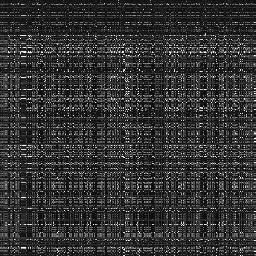
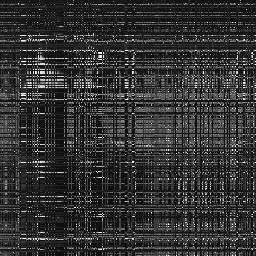
可以看到那条狗

diff --git a/opencv.cpp b/opencv.cpp
@@ -67,10 +67,10 @@ void swap_column(int present_column, int target_column,uchar *p, int N){
 	}	
 }	
 
-void checkbox_binary_row(long long *csvMat,int boxSize,int box_col,int *binary,long long *result_matrix,int bits_size){
+void checkbox_binary_row(long long *csvMat,int boxSize,int box_col,int *binary,int *result_matrix,int bits_size){
 	for(int x=0;x<box_col;x++){	
 		for(int i=0;i<box_col;i=i+1){
-			//printf("decimal to binary: %lld\n",csvMat[i*2+1+x*box_col*2]);
+			//printf("row decimal to binary[%d]: %lld\n",x*box_col+i,csvMat[i*2+1+x*box_col*2]);
 			decimal_to_binary(csvMat[i*2+1+x*box_col*2],bits_size,binary);
 			for(int k=0;k<boxSize;k++){
 				int result=0;
@@ -79,15 +79,16 @@ void checkbox_binary_row(long long *csvMat,int boxSize,int box_col,int *binary,l
    					//printf("result is:%d\n",result);
    				}
    				result_matrix[k*box_col+i+boxSize*x*box_col]=result;
-   				//printf("checkbox row result %d: result_matrix[%d] = %lld\n",x*256+8*i+k,k*box_col+i+boxSize*x*box_col,result_matrix[k*box_col+i+4*x*box_col]);
+   				printf("checkbox row result %d: result_matrix[%d] = %d\n",x*256+8*i+k,k*box_col+i+boxSize*x*box_col,result_matrix[k*box_col+i+boxSize*x*box_col]);
    			}
 		}
 	}	
 }
 
-void checkbox_binary_column(long long *csvMat,int boxSize,int box_col,int *binary,long long *result_matrix,int bits_size){
+void checkbox_binary_column(long long *csvMat,int boxSize,int box_col,int *binary,int *result_matrix,int bits_size){
 	for(int x=0;x<box_col;x++){	
 		for(int i=0;i<box_col;i=i+1){
+			//printf("col decimal to binary[%d]: %lld\n",x*box_col+i,csvMat[i*2+x*box_col*2]);
 			decimal_to_binary(csvMat[i*2+x*box_col*2],bits_size,binary);//i*2+x*box_col*2//x*2+i*box_col*2
 			for(int k=0;k<boxSize;k++){
 				int result=0;
@@ -95,13 +96,13 @@ void checkbox_binary_column(long long *csvMat,int boxSize,int box_col,int *binar
    					result=result+binary[z+k*8]*pow(2,7-z);
    				}
    				result_matrix[i*box_col*boxSize+x+k*box_col]=result;//i*box_col*boxSize+x+k*box_col//k*box_col+i+boxSize*x*box_col
-   				//printf("checkbox column result %d: %lld\n",x*256+boxSize*i+k,result_matrix[k*box_col+i+4*x*box_col]);
+   				//printf("checkbox column result %d: %d\n",x*256+boxSize*i+k,result_matrix[k*box_col+i+boxSize*x*box_col]);
    			}
 		}
 	}	
 }
 
-void get_xor(long long *result_xor,long long *result_matrix,int box_col, int M){
+void get_xor(int *result_xor,int *result_matrix,int box_col, int M){
 	for(int j=0;j<M;j++){
    		for(int i=0+j*box_col;i<box_col-1+j*box_col;i++){
    	   		result_matrix[i+1]=result_matrix[i]^result_matrix[i+1];//XOR every decimal of the row or column
@@ -189,8 +190,8 @@ int main(int argc, char *argv[]){
 	uchar *p = image.data;
 	row_xor = rowXOR(p, M);
 	col_xor = colXOR(p, M);
-	for(i=0; i< M; i++) printf("row_xor[%d] = %d\n", i, row_xor[i]);
-	for(i=0; i< M; i++) printf("col_xor[%d] = %d\n", i, col_xor[i]);
+	//for(i=0; i< M; i++) printf("row_xor[%d] = %d\n", i, row_xor[i]);
+	//for(i=0; i< M; i++) printf("col_xor[%d] = %d\n", i, col_xor[i]);
 
     char buffer[1024] ;
     char *record,*line;
@@ -242,28 +243,33 @@ int main(int argc, char *argv[]){
    		bits_size=64;
    }*/
    int *binary;
-   long long*result_matrix;	
-   long long*result_xor;
+   int *result_matrix;	
+   int *result_xor;
 
    binary = (int*) malloc(bits_size*sizeof(int));// this is to store the binary of the box 
    if(binary == NULL){ printf("Fail to melloc binary\n\n"); exit(EXIT_FAILURE); }
 
-   result_matrix= (long long*) malloc(M*box_col*sizeof(long long));// this is to store the decimal which is transformed from the 8 digits
+   result_matrix= (int*) malloc(M*box_col*sizeof(int));// this is to store the decimal which is transformed from the 8 digits
    if(result_matrix == NULL){ printf("Fail to melloc result_matrix\n\n"); exit(EXIT_FAILURE); }
+   printf("%d\n",M*box_col);
 
-   result_xor= (long long*) malloc(M*sizeof(long long));
+   result_xor= (int*) malloc(M*sizeof(int));
    if(result_xor == NULL){ printf("Fail to melloc result_xor\n\n"); exit(EXIT_FAILURE); }
 
 
 /////////////////load checkbox XOR and XOR every line////////////////////////////////////
 /////////////////load checkbox for the row, which is the csvmat[][1]/////////////////////
    checkbox_binary_row(csvMat,boxSize,box_col,binary,result_matrix,bits_size);
+   printf("it is right\n");
    get_xor(result_xor,result_matrix,box_col,M);
+   int flag1=0;
+   int flag2=0;
    	for(int j=0;j<N;j++){
    		for(int i=j;i<M;i++){//swap from this line
    			if(result_xor[j]==row_xor[i]){// if find the targets, then swap
+   				flag1++;
    				swap_row(j,i, p, M);
-   				//printf("has swaped column %d and %d and the result_xor is %lld the row_xor is %d\n",j,i,result_xor[j],row_xor[i]);
+   				//printf("has swaped column %d and %d and the result_xor is %d the row_xor is %d\n",j,i,result_xor[j],row_xor[i]);
    				break;
    			}
    		}
@@ -275,12 +281,14 @@ int main(int argc, char *argv[]){
    	for(int j=0;j<N;j++){
    		for(int i=j;i<M;i++){//swap from this line
    			if(result_xor[j]==col_xor[i]){// if find the targets, then swap
+   				flag2++;
    				swap_column(j,i, p, M);
-   				//printf("has swaped row %d and %dand the result_xor is %lld the row_xor is %d\n",j,i,result_xor[j],col_xor[i]);
+   				//printf("has swaped row %d and %dand the result_xor is %d the row_xor is %d\n",j,i,result_xor[j],col_xor[i]);
    				break;
    			}
    		}
    	}	
+   	printf("%d, %d \n",flag1,flag2);
 	
 
 ////////////////////////////
